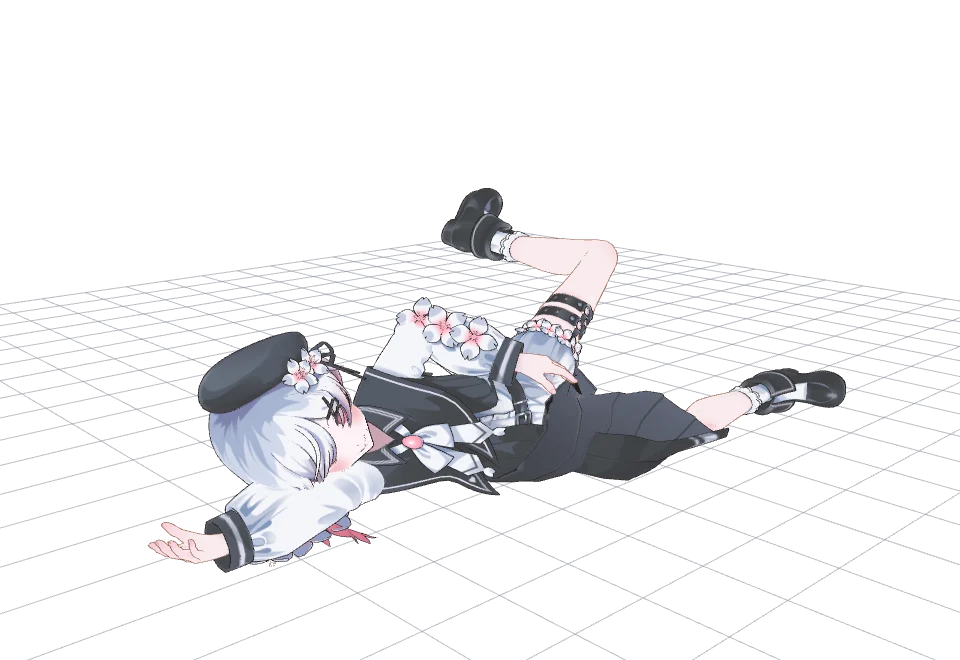
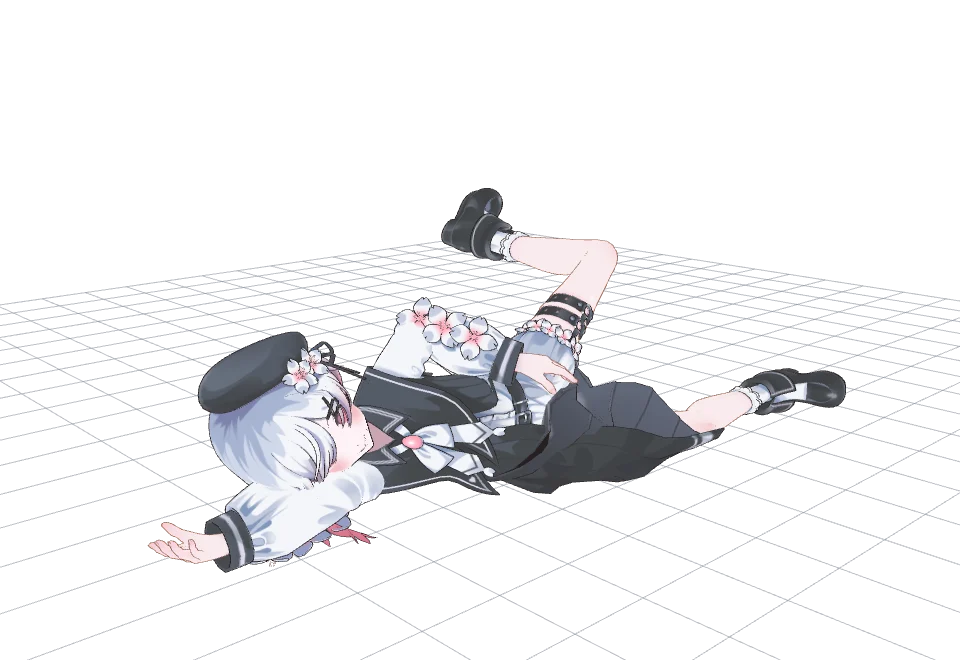
両脚にはさまれたすその位置を前のコマから続ける
骨盤の球を小さくしたあと、横に寝る種目ですそが両脚の当たりの間で毎コマ入れ替わった。
体の2か所に逆向きに押された点は、はさむ向きの動きを消し、位置も前のコマ＋その速さに戻す。

Changed region(s): [[0.5312, 0.5758, 0.6875, 0.7576], [0.625, 0.6061, 0.7812, 0.697], [0.6562, 0.697, 0.6875, 0.7273]]

diff --git a/docs/mmd/exskirt.js b/docs/mmd/exskirt.js
@@ -54,7 +54,7 @@ export class Skirt {
     this.S = S;
     // 床との当たりを、すそほど高めに取る。点のあいだの布の面とフリルは点より外へ出るので、点だけを床の上に置いても面が床へ刺さる
     this.lift = Float32Array.from(S, ([I]) => { const r = Math.max(...I.map(i => Math.floor(i / C))); return r >= R ? o.hem : r === R - 1 ? o.hem * 0.6 : o.hem * 0.3; });
-    this.cn = new Float64Array(n * 3); this.cv = new Float64Array(n * 3); this.ch = new Uint8Array(n); this.bn = new Float64Array(n * 3); this.fn = new Float64Array(n * 3);
+    this.cn = new Float64Array(n * 3); this.cv = new Float64Array(n * 3); this.ch = new Uint8Array(n); this.bn = new Float64Array(n * 3); this.fn = new Float64Array(n * 3); this.ba = new Float64Array(n);
 
     // 当たる相手（体）。もとの物理の「骨に従う剛体」から取る。脚は、見た目の太さを頂点から測る。
     this.cols = [];
@@ -182,7 +182,7 @@ export class Skirt {
     const boxes = this.boxes.filter(b => b.m.visible).map(b => ({ c: b.m.position, cs: Math.cos(b.m.rotation.y), sn: Math.sin(b.m.rotation.y), h: b.h }));
     // 腕とダンベルは、いつも布の外にある。布を体のほうへ押すだけにする（内側から外へは押し出さない）
     const e = this.M.elements, c0x = e[12], c0y = e[13], c0z = e[14], al = Math.hypot(e[4], e[5], e[6]) || 1, adx = e[4] / al, ady = e[5] / al, adz = e[6] / al;
-    const m = o.margin, fy = o.floor + m * 0.6, lift = this.lift, S = this.S, con = this.con, cn = this.cn, cv = this.cv, ch = this.ch, bn = this.bn, fn = this.fn;
+    const m = o.margin, fy = o.floor + m * 0.6, lift = this.lift, S = this.S, con = this.con, cn = this.cn, cv = this.cv, ch = this.ch, bn = this.bn, fn = this.fn, ba = this.ba;
     for (let s = 0; s < ns; s++) {
       const al = (s + 1) / ns;
       cols.forEach((c, k) => { for (let a = 0; a < 3; a++) { ca[k * 3 + a] = c.pa.getComponent(a) + (c.a.getComponent(a) - c.pa.getComponent(a)) * al; cb[k * 3 + a] = c.pb.getComponent(a) + (c.b.getComponent(a) - c.pb.getComponent(a)) * al; } });
@@ -195,7 +195,7 @@ export class Skirt {
         p[j] = x[j]; p[j + 1] = x[j + 1]; p[j + 2] = x[j + 2];
         x[j] += vx * h; x[j + 1] += vy * h; x[j + 2] += vz * h;
       }
-      ch.fill(0); bn.fill(0); fn.fill(0);
+      ch.fill(0); bn.fill(0); fn.fill(0); ba.fill(0);
       for (let it = 0; it < o.iter; it++) {
         for (let k = 0; k < con.length; k++) {
           const e = con[k], i = e[0] * 3, j = e[1] * 3, wi = w[e[0]], wj = w[e[1]], ws = wi + wj; if (ws === 0) continue;
@@ -213,8 +213,8 @@ export class Skirt {
             const cap = k3 >= 0 ? o.pmaxB : px || pz ? o.pmax : 0; if (cap) { const l = Math.hypot(px, py, pz); if (l > cap) { const k = cap / l; px *= k; py *= k; pz *= k; } }
             for (let k = 0; k < I.length; k++) { const i = I[k]; if (!w[i]) continue; const f = Wt[k] / den, j = i * 3; x[j] += px * f; x[j + 1] += py * f; x[j + 2] += pz * f;
               const l = Math.hypot(px, py, pz) || 1;
-              if (k3 < 0) { fn[j] += px / l; fn[j + 1] += py / l; fn[j + 2] += pz / l; } else if (!cols[k3 / 3].outer && !cols[k3 / 3].slick) { bn[j] += px / l; bn[j + 1] += py / l; bn[j + 2] += pz / l; } ch[i] = k3 >= 0 && (cols[k3 / 3].outer || cols[k3 / 3].slick) ? 2 : 1; cn[j] = px / l; cn[j + 1] = py / l; cn[j + 2] = pz / l;
-              if (k3 >= 0) for (let a = 0; a < 3; a++) cv[j + a] = va[k3 + a] + (vb[k3 + a] - va[k3 + a]) * t; else cv[j] = cv[j + 1] = cv[j + 2] = 0; }
+              if (k3 < 0) { fn[j] += px / l; fn[j + 1] += py / l; fn[j + 2] += pz / l; } else if (!cols[k3 / 3].outer && !cols[k3 / 3].slick) { bn[j] += px / l; bn[j + 1] += py / l; bn[j + 2] += pz / l; ba[i]++; } ch[i] = k3 >= 0 && (cols[k3 / 3].outer || cols[k3 / 3].slick) ? 2 : 1; cn[j] = px / l; cn[j + 1] = py / l; cn[j + 2] = pz / l;
+              if (k3 >= 0) for (let a = 0; a < 3; a++) cv[j + a] = va[k3 + a] + (vb[k3 + a] - va[k3 + a]) * t; else cv[j] = cv[j + 1] = cv[j + 2] = 0;  }
             qx += px; qy += py; qz += pz;
           };
           for (let k = 0; k < nc; k++) {
@@ -257,6 +257,13 @@ export class Skirt {
         // 床（台）と体に逆向きから押された点（はさまれた点）は、はさむ向きの速さを消す。重力とすべる向きは残す
         // （横に寝る種目で、下になった側のすそが押し合いを毎コマ速さにしてはね回った。速さを丸ごと0にすると、脚に触れたすそが空中で止まった）
         const bl = Math.hypot(bn[j], bn[j + 1], bn[j + 2]), fl = Math.hypot(fn[j], fn[j + 1], fn[j + 2]);
+        // 体の2か所（両脚など）に逆向きから押された点は、はさむ向き（最後に押された向き）の動きを消し、位置も前のコマ＋その速さに戻す
+        // （骨盤の球を小さくしたら、横に寝る種目ですそが両脚にはさまれ、重なった脚の当たりの間で位置が毎コマ入れ替わった。速さだけ消しても位置は跳ねる）
+        if (ba[i] >= 2 && bl < ba[i] * 0.5) {
+          const d = vx * cn[j] + vy * cn[j + 1] + vz * cn[j + 2], k = 1 - o.mu;
+          v[j] = (vx - cn[j] * d) * k; v[j + 1] = (vy - cn[j + 1] * d) * k; v[j + 2] = (vz - cn[j + 2] * d) * k;
+          x[j] = p[j] + v[j] * h; x[j + 1] = p[j + 1] + v[j + 1] * h; x[j + 2] = p[j + 2] + v[j + 2] * h; continue;
+        }
         if (bl && fl && (bn[j] * fn[j] + bn[j + 1] * fn[j + 1] + bn[j + 2] * fn[j + 2]) / (bl * fl) < -0.3) {
           const ax = fn[j] / fl - bn[j] / bl, ay = fn[j + 1] / fl - bn[j + 1] / bl, az = fn[j + 2] / fl - bn[j + 2] / bl, al = Math.hypot(ax, ay, az), d = (vx * ax + vy * ay + vz * az) / (al * al), k = 1 - o.mu;
           v[j] = (vx - ax * d) * k; v[j + 1] = (vy - ay * d) * k; v[j + 2] = (vz - az * d) * k; continue;

diff --git a/docs/service-worker.js b/docs/service-worker.js
@@ -1,9 +1,9 @@
 /* トレーニング記録 — オフラインキャッシュ
-   ビルド時に f31d683ee8 を内容ハッシュへ置き換える（更新のたびにキャッシュが入れ替わる） */
-const CACHE_NAME = 'trainlog-f31d683ee8';
+   ビルド時に 54e767248b を内容ハッシュへ置き換える（更新のたびにキャッシュが入れ替わる） */
+const CACHE_NAME = 'trainlog-54e767248b';
 /* モデルの動き（./mmd/ 以下。14MBほど）は別の保存に分ける。使ったときに初めて保存し、
-   アプリ本体を更新しても消さない。中身が変わったとき（8a79215656 が変わる）だけ入れ替える */
-const MODEL_CACHE = 'trainmodel-8a79215656';
+   アプリ本体を更新しても消さない。中身が変わったとき（9deafcf861 が変わる）だけ入れ替える */
+const MODEL_CACHE = 'trainmodel-9deafcf861';
 const PRECACHE = [
   './',
   './index.html',

diff --git a/docs/index.html b/docs/index.html
@@ -5927,7 +5927,7 @@ function stampNow(){
 }
 /* この画面がいつ作られた版か（build.py が日時に置き換える）。
    端末に保存された古い版を見ていないか確かめるために出す */
-const BUILD_VERSION = "2026-10-18 16:28";
+const BUILD_VERSION = "2026-10-18 17:04";
 let TODAY = todayKey();
 /* アプリを開いたまま日付が変わっていたら、今日に切り替える（前日の記録はそのまま残る）。切り替えたら true */
 function rollDay(){
